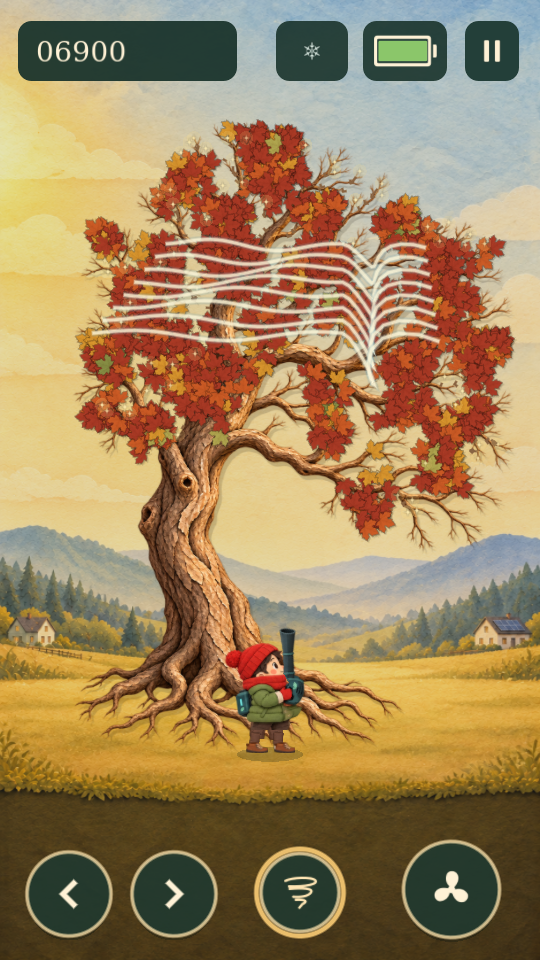
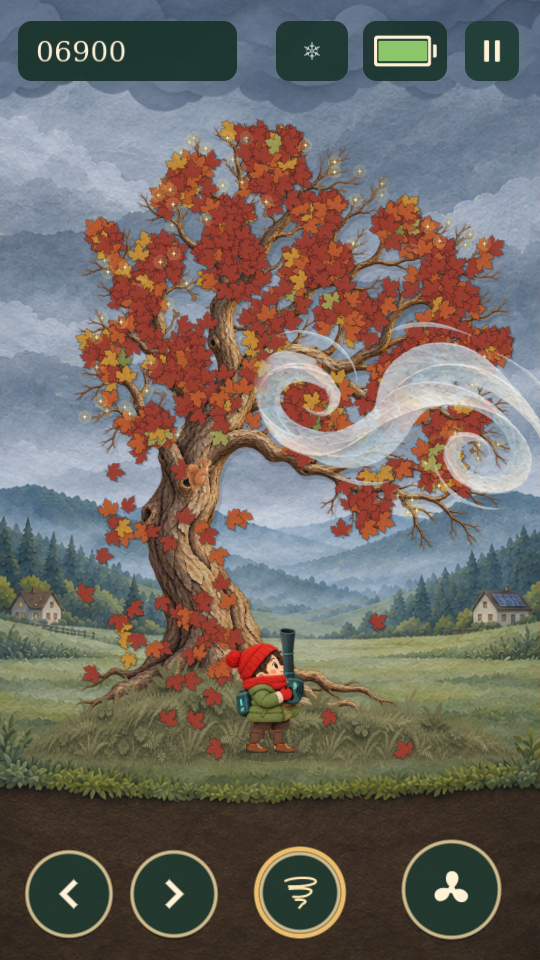
Rebuild North Wind as animated paper eddies with ordinary leaf falls

diff --git a/tests/browser_finale.py b/tests/browser_finale.py
@@ -28,6 +28,7 @@ with sync_playwright() as p:
         mode('intro');page.wait_for_timeout(1000);page.keyboard.press('Space');mode('play')
     click('Continue / New game');mode('slots');click('Victory study');mode('continue');click('Continue');skip_intro()
     page.keyboard.down('Space');page.wait_for_function('snowSnapshot.mode==="won" && !snowSnapshot.result_visible',timeout=30000);page.keyboard.up('Space')
+    capture('spring-growing-crown')
     page.wait_for_function('snowSnapshot.flower_progress===1 && snowSnapshot.ending_time<6',timeout=30000)
     assert not snap()['result_visible'];capture('finale-flowers-complete')
     mode('victory_outro');assert not snap()['result_visible']

diff --git a/docs/BETA_POLISH.md b/docs/BETA_POLISH.md
@@ -107,12 +107,12 @@ Release Web validation also uses `tests/browser_release_atmospheres.py`, since t
 
 ## Planted tree base and smooth moon
 
-A separate textured paper meadow bank covers the bottom root fan, behind the player and leaf piles. Its dirt, grass, clover and low plants overlap the unchanged tree painting. The moon now has a feathered circular edge and phase terminator; its dark side lets the actual sky show through instead of painting a second hard-edged circle over it. The original paper-leaf texture provides faint grain. [Tree-base review](images/planted-roots.png).
+A separate textured paper meadow bank covers the bottom root fan, behind the player and leaf piles. Its grass, clover and low plants overlap the unchanged tree painting. The moon now has a feathered circular edge and phase terminator; its dark side lets the actual sky show through instead of painting a second hard-edged circle over it. The original paper-leaf texture provides faint grain. [Tree-base review](images/planted-roots.png).
 
 
 ## Wildlife animation and branch placement
 
-Four paper motion atlases replace the sixteen-pose reference sheet with seventy-two poses. The owl sits on verified main-tree bark in a less crowded leaf area, tracks the player's horizontal position through front-view head poses, and occasionally plays an eight-frame wingbeat. The squirrel draws over the trunk, climbs once, jumps onto a branch and remains there to nibble. Grass/soil, leaves and the player draw in front of tree residents. Rabbits hop and graze, disappear offscreen and return facing the other way; wolves trot and sniff; bats use a full eight-frame wingbeat. Pausing freezes all clocks.
+Four paper motion atlases replace the sixteen-pose reference sheet with seventy-two poses. The owl sits on verified main-tree bark in a less crowded leaf area, tracks the player's horizontal position through front-view head poses, and occasionally plays an eight-frame wingbeat. The squirrel draws over the trunk, climbs once, jumps onto a branch and remains there to nibble. Grass, leaves and the player draw in front of tree residents. Rabbits hop and graze, disappear offscreen and return facing the other way; wolves trot and sniff; bats use a full eight-frame wingbeat. Pausing freezes all clocks.
 
 The nighttime **Full moon** preview action makes rare visitors easy to inspect and cannot change campaign weather or saves. Review captures: [squirrel climbing](images/squirrel-climbing.png), [branch resident](images/squirrel-perched.png), [owl gaze](images/owl-gaze.png), [full-moon visitors](images/full-moon-visitors.png). Motion and asset checks live in `tests/test_wildlife_polish.gd`; `tests/browser_wildlife_polish.py` uses real buttons/keys and read-only frame observations.
 
@@ -123,3 +123,10 @@ Run native regressions with `python3 tools/check_godot_tests.py`. It rejects eng
 The root bank is now completely vegetated paper artwork, with a feathered lower edge and lighting/colour treatments for autumn, rain, dusk, night and winter. Victory sends a short warm light pulse through the tree. Missing leaves grow from their stems in a staggered branch wave; the existing crown changes colour, the meadow greens over 5.5 seconds, and the current winter outfit dissolves into the summer celebration pose. The landscape crossfades into sunlight. These are presentation effects and do not change saved leaf identities, rewards or RNG. Settled snow has a smooth highlighted rim and soft shaded folds.
 
 Validation: seven growth/render-buffer checks, the existing finale timing tests, and the browser finale flow. Ambient rustle now reaches independently timed leaves throughout the crown; the attachment regression allows its small cosmetic motion after a leaf has settled.
+
+
+### North Wind and snow polish
+
+The finale uses a sixteen-frame paper wind atlas with interpolated poses, rolling motion and a curved, side-to-side route that travels completely offscreen. Its physical stripping capsule and local swirling force follow the same route. Gusts impart a rolling impulse to real leaves; regular three-leaf falls continue between gusts, sharing the existing finite schedule. Fine chaff and orbiting debris add motion without creating scoring leaves. Rules 9 retains earlier saves and the single high-score table.
+
+Validation: 38 finale checks include finite unique schedules on all difficulties, playable minimum foliage, ordinary falling during recovery, curved exit/reentry and swept-path stripping. The browser finale study shows textured gusts on both approaches and verifies pause and ending flow. Small falling snow crystals now use smooth shaded silhouettes; the settled snowbank has an antialiased highlighted rim and soft folds. [Wind return review](images/north-wind-sweep.png).

diff --git a/docs/AMBIENT_WORLD.md b/docs/AMBIENT_WORLD.md
@@ -29,7 +29,7 @@ Use a separate cosmetic random seed, independent of the leaf simulation. Select 
 
 `world_profile.gd` derives each week's cosmetic variation from the already-saved campaign ID and week, independently of the gameplay RNG. Retries/reloads keep the chosen sun position, moon phase and rare wildlife. The sequence is sunny, sunny, overcast, dusk, rain, night, sunny, night storm, fog, dusk, rain, sunny, then the cloudy daytime North Wind.
 
-`ambient_world.gd` draws behind the tree; separate paper paintings replace the sunny valley for overcast, twilight and night. Sun/moon, paper storm clouds, soft gradient fog, stars, rain and feathered rays form independent layers. Rays remain behind the tree/player. Wind bends a bounded sample of attached leaves at 15 Hz by less than a pixel; it never changes an attachment, force or miss. Pause freezes all clocks; the internal reduced-effects mode stops extra animal/rustle motion and suppresses lightning.
+`ambient_world.gd` draws behind the tree; separate paper paintings replace the sunny valley for overcast, twilight and night. Sun/moon, paper storm clouds, soft gradient fog, stars, rain and feathered rays form independent layers. Rays remain behind the tree/player. Wind bends independently phased leaves throughout the crown at 15 Hz by less than a pixel, with stronger intermittent finale rustles; it never changes an attachment, force or miss. Pause freezes all clocks; the internal reduced-effects mode stops extra animal/rustle motion and suppresses lightning.
 
 Four textured paper animation atlases now contain seventy-two poses: sixteen squirrel frames, sixteen front-view owl frames, three eight-frame rabbit coats, and eight poses each for the wolf and bat. Rabbit coats crossfade gradually. Full moon (one of eight phases, night only) replaces the rabbit with a wolf and bat. At most three species appear together. A directly held blower can trigger one owl wing beat per twelve seconds; creatures never interact with leaf physics.
 
@@ -37,7 +37,7 @@ Explore the seasons now has previous/next week arrows to review all thirteen atm
 
 ## Branch residents and animal routines
 
-The unchanged tree now has a paper earth-and-meadow bank in front of its lower root fan. Bark draws first, then tree residents, then the meadow; foliage and the player draw above them. Ground visitors stay in the valley.
+The unchanged tree now has a fully planted paper meadow bank in front of its lower root fan. Bark draws first, then tree residents, then the meadow; foliage and the player draw above them. Ground visitors stay in the valley.
 
 The owl chooses among verified painted boughs, favoring fewer nearby occupied leaf positions at the level boundary. It remains on that branch through the attempt while leaves can obscure it naturally. Five front-view head directions track the player, with blinks, a relaxed pose and an eight-frame perched wingbeat. Occasional flaps happen independently of blower reactions; reaction cooldowns and all animation clocks freeze on pause.
 

diff --git a/docs/CAMPAIGN.md b/docs/CAMPAIGN.md
@@ -26,7 +26,7 @@ Example: a healthy crown above the coming week’s ceiling sheds to that ceiling
 | Blustery | 105 | 225 | 15 | ×1.00 | ×1.00 | ×1.00 |
 | Gale | 75 | 270 | 23 | ×0.85 | ×1.30 | ×1.12 |
 
-The final encounter adds 90 scheduled leaves. The North Wind crosses the crown every 4.8 seconds: a 0.8-second approach, 1.5-second sweep, and 2.5-second recovery window. It strips only scheduled real leaves inside its swept path, up to 44 / 52 / 60 per pass by difficulty, and curls nearby airborne leaves through the same local force field. Passes alternate direction and target a height with pending leaves. There is no face character or text panel behind the tree. All schedules are finite and bounded by attached leaves. The pressure-driven warning snow and loss condition use **weekly misses**, shown by the growing, pulsing snowflake. No account or permanent stat grind is required. Numbers need human playtesting; the floor prevents a supply soft lock, not every possible player failure.
+The final encounter adds 90 scheduled leaves. The North Wind crosses the crown every 4.8 seconds: a 0.8-second approach, 2.1-second curved sweep, and 1.9-second recovery window. It strips only scheduled real leaves inside its swept path, up to 44 / 52 / 60 per pass by difficulty, and curls nearby airborne leaves through the same local force field. Passes alternate direction and target a height with pending leaves. Sixteen original paper curl poses crossfade at 18 fps along the shared physics path. Ordinary batches of three leaves continue between passes at 2.4 times the usual shedding interval; they share the finite schedule with gusts. Dust and chaff remain cosmetic. There is no face character or text panel behind the tree. All schedules are finite and bounded by attached leaves. The pressure-driven warning snow and loss condition use **weekly misses**, shown by the growing, pulsing snowflake. No account or permanent stat grind is required. Numbers need human playtesting; the floor prevents a supply soft lock, not every possible player failure.
 
 ## Direction and airflow
 

diff --git a/assets/ASSET_MANIFEST.md b/assets/ASSET_MANIFEST.md
@@ -63,3 +63,4 @@ The in-game License screen reads Godot’s full MIT text and bundled-library cop
 Current wildlife uses four original generated paper animation sheets, copied unchanged: `art/owl_motion.png` (`exec-b2e0437c-f027-4082-a2ec-08635e8d6f31.png`, sixteen frontal gaze/blink/flap poses), `art/squirrel_motion.png` (`exec-e535b834-0eb0-4657-a3b5-a061f3fbee0d.png`, sixteen run/climb/jump/perch poses), `art/rabbit_motion.png` (`exec-1e3b9bc2-ef8b-4e12-b6e5-93d7fdc1a3e0.png`, three matching eight-pose coats), and `art/rare_motion.png` (`exec-c6338ffd-f698-4ee6-a289-dc435af1f95e.png`, eight wolf and eight bat poses). All reference the earlier paper wildlife art and use smooth mipmapped filtering. `tools/build_animal_motion_regions.py` finds complete silhouettes across rows so stretched poses crossing a nominal cell boundary retain their noses and paws. It bakes source-space talon/foot/body anchors, including authored bat-eye coordinates and measured owl head-to-talon body heights, without altering PNG pixels. The old sixteen-pose reference atlas is excluded from game exports.
 
 - `art/root_meadow.png` (revised November 2026): original generated paper meadow bank, fully planted without exposed soil. Generated from the existing original meadow and landscape as style references; original output retained in the workspace. Runtime feathering, seasonal pigment and light are applied by `meadow.gdshader`.
+- `art/north_wind_motion.png`: sixteen original translucent textured-paper curl poses, generated for this game using the user's wind sketch only as motion/shape inspiration and existing original game art as a texture reference. The supplied inspiration images are not bundled. Four-by-four atlas; smooth filtering, per-cell feathering, low-alpha mist rejection and interpolated frames are applied at runtime.
